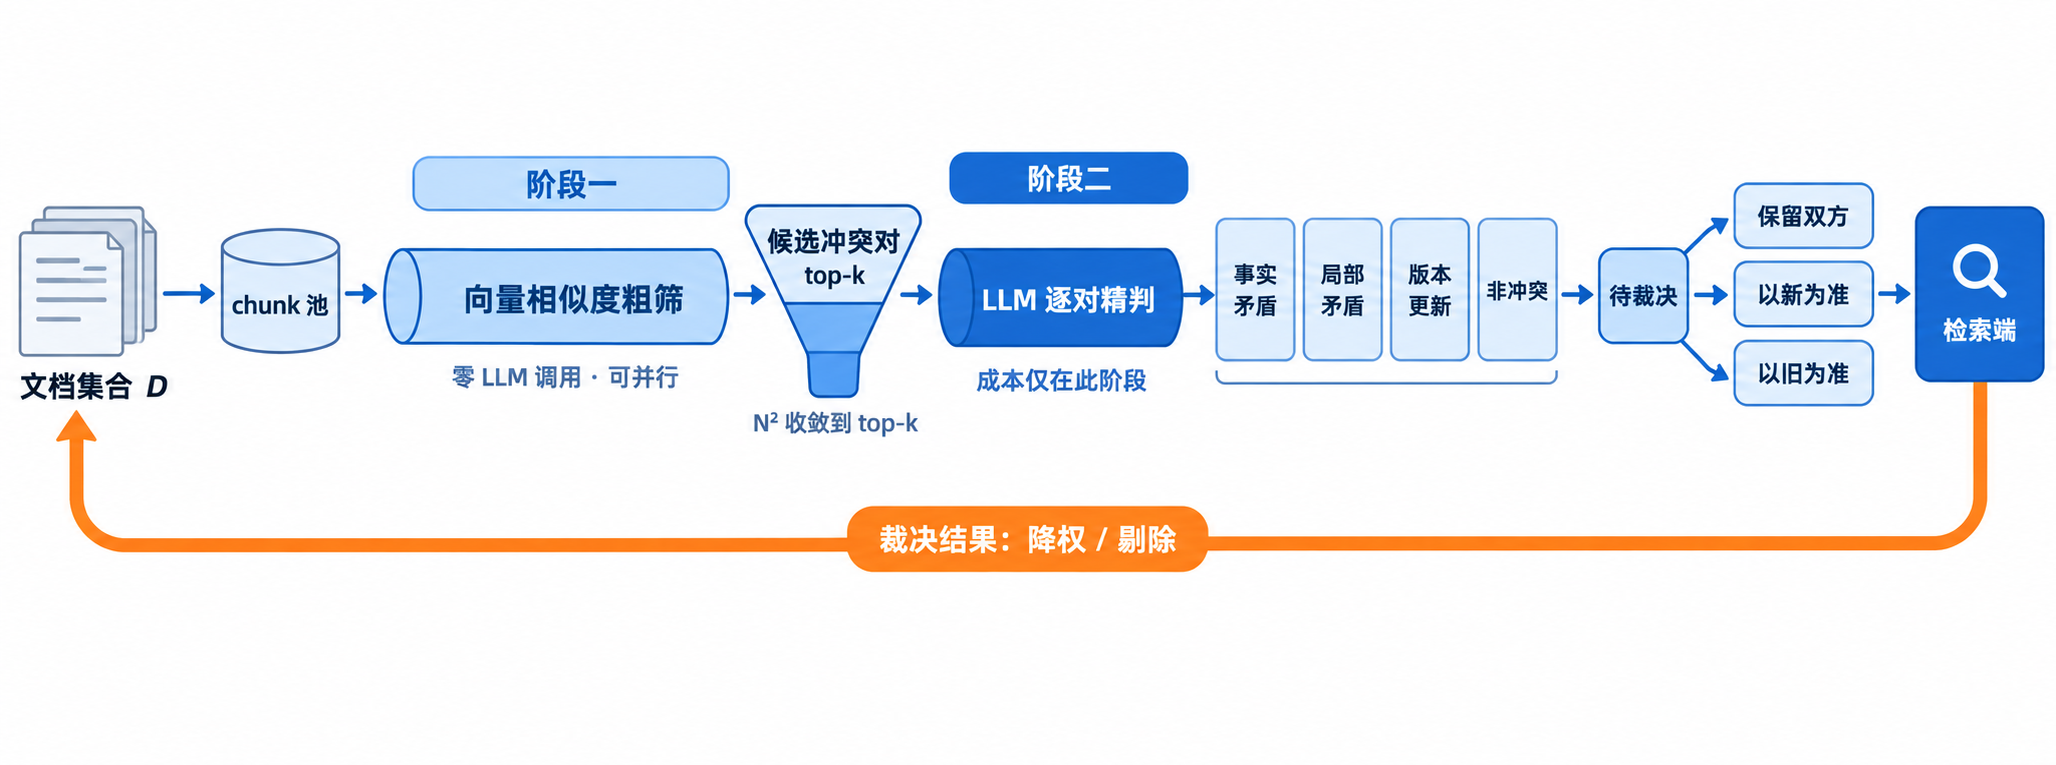
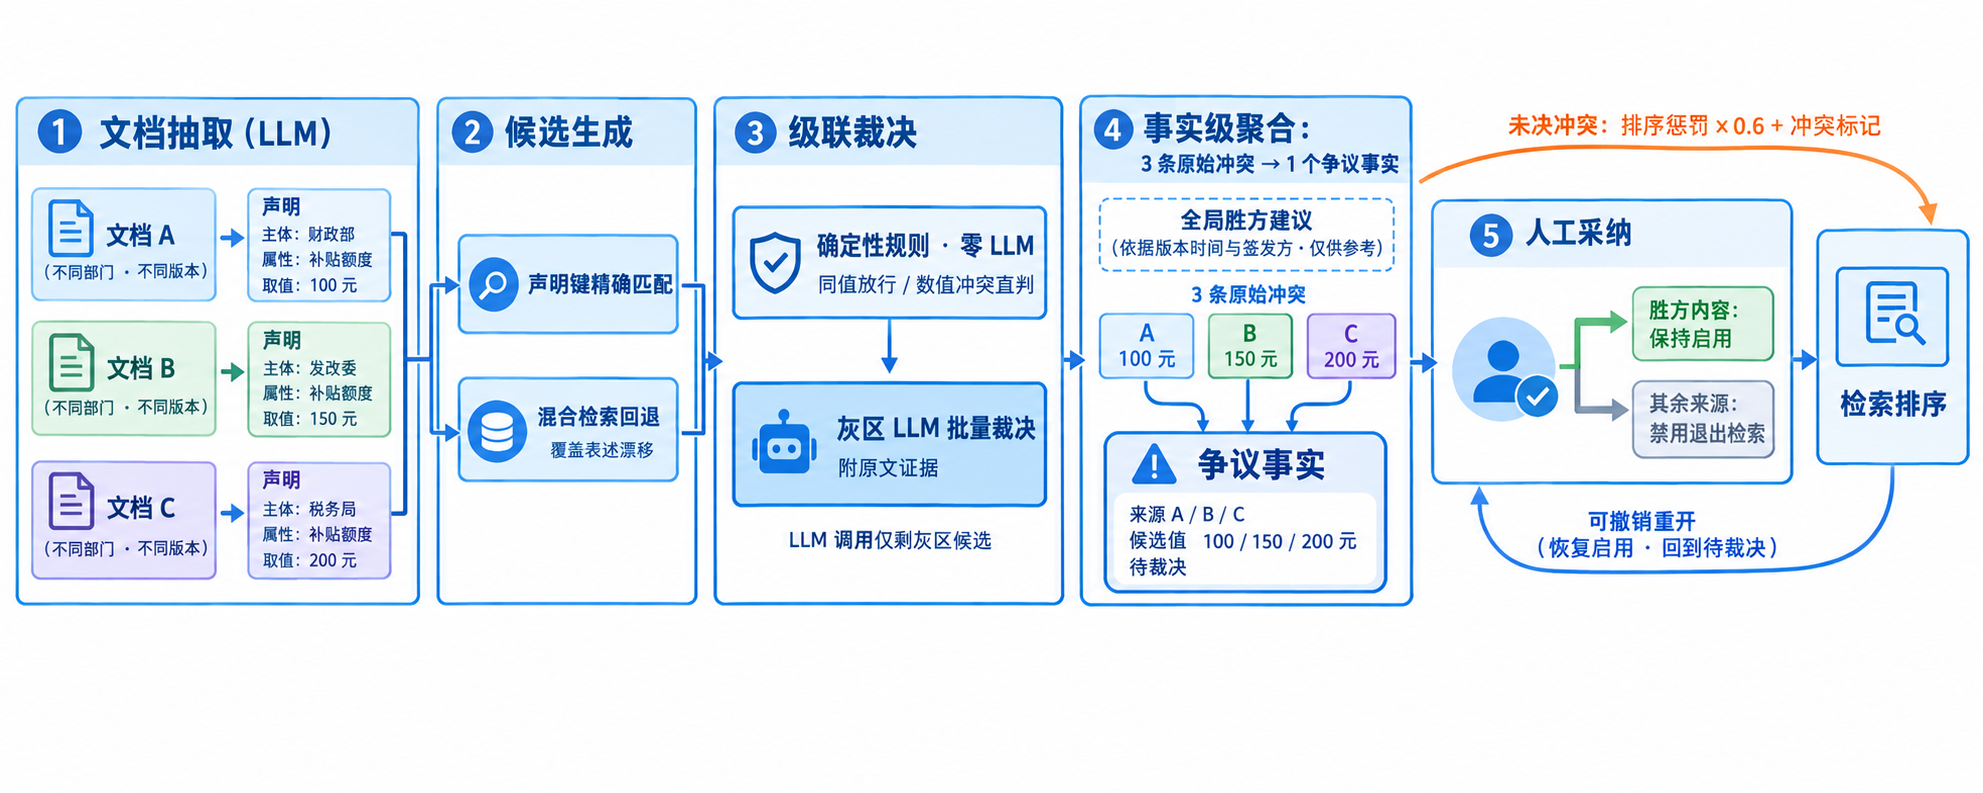
docs(paper): add IEEE case figures and refine kaiti opening

diff --git a/kaiti/report.tex b/kaiti/report.tex
@@ -51,6 +51,19 @@
 
 \graphicspath{{figures/}}
 
+%%%%%%%%%%%%%%%%%%%%%%%%%%%%%%%%%%%%%%%%%%%%%%%%%%%%%%%%%%%%%%%%%%%%%%%%%%%%%%%%
+% 三级标题（subsubsection，如 4.1.1 研究内容一）的上下间距
+%   模板默认仅 3bp（hithesisart.cls 第 357-365 行），配合小四字号后，
+%   标题与下文之间的行距（约 13.5pt）明显小于正文行距（20.4pt），观感偏挤。
+%   此处与二级标题对齐：上方 7bp 留白，下方 6bp（略小于二级以保持层级）。
+%   如需恢复模板默认，删除下面这个 \ctexset 块即可。
+%%%%%%%%%%%%%%%%%%%%%%%%%%%%%%%%%%%%%%%%%%%%%%%%%%%%%%%%%%%%%%%%%%%%%%%%%%%%%%%%
+\ctexset{
+  subsubsection={
+    beforeskip=7bp,
+    afterskip=6bp,
+  }
+}
 
 \begin{document}
 
